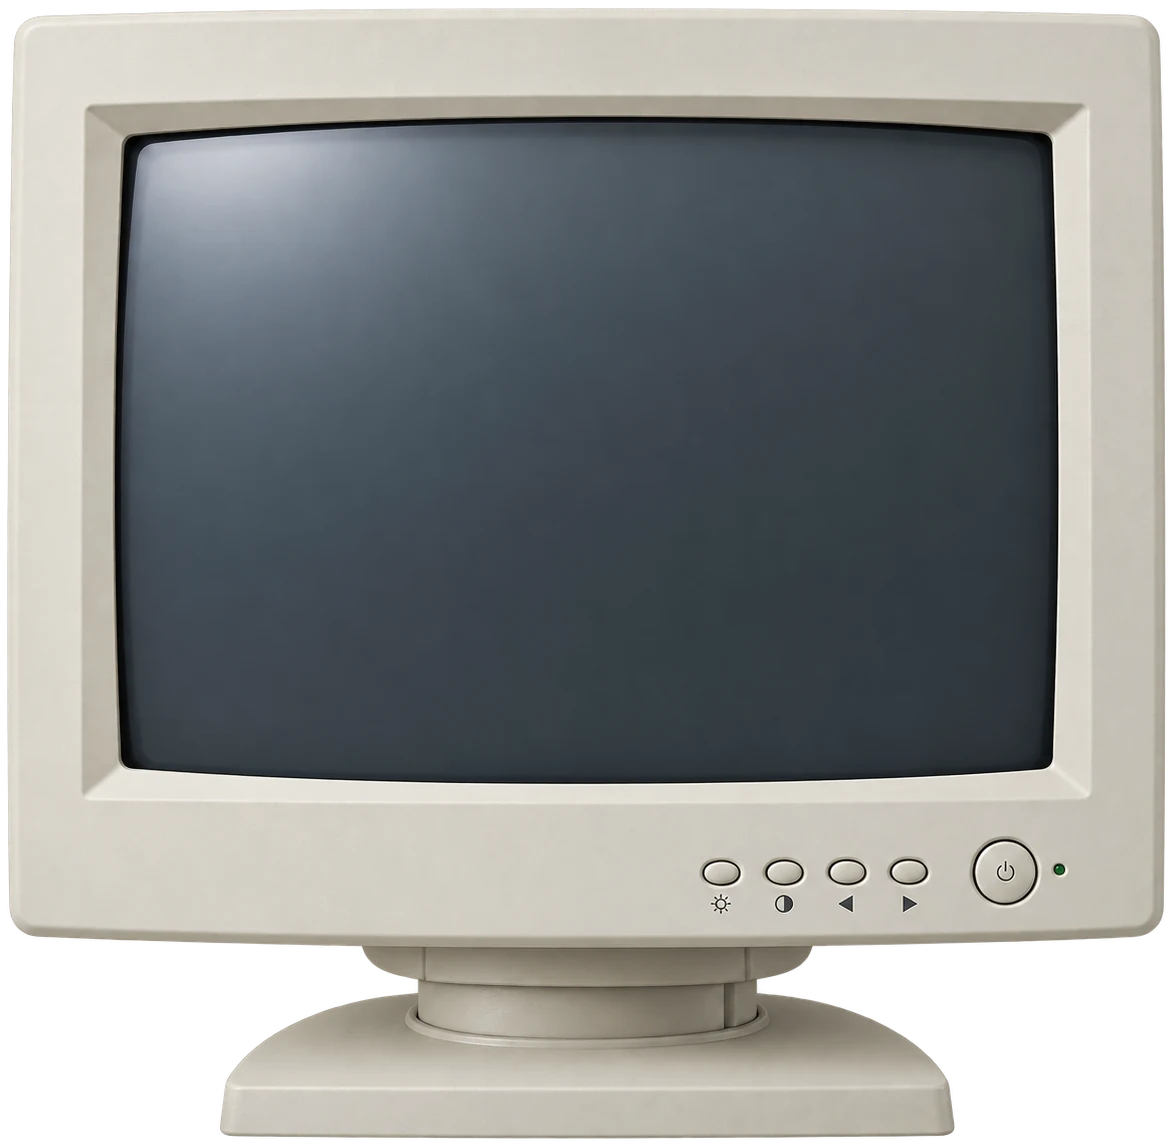
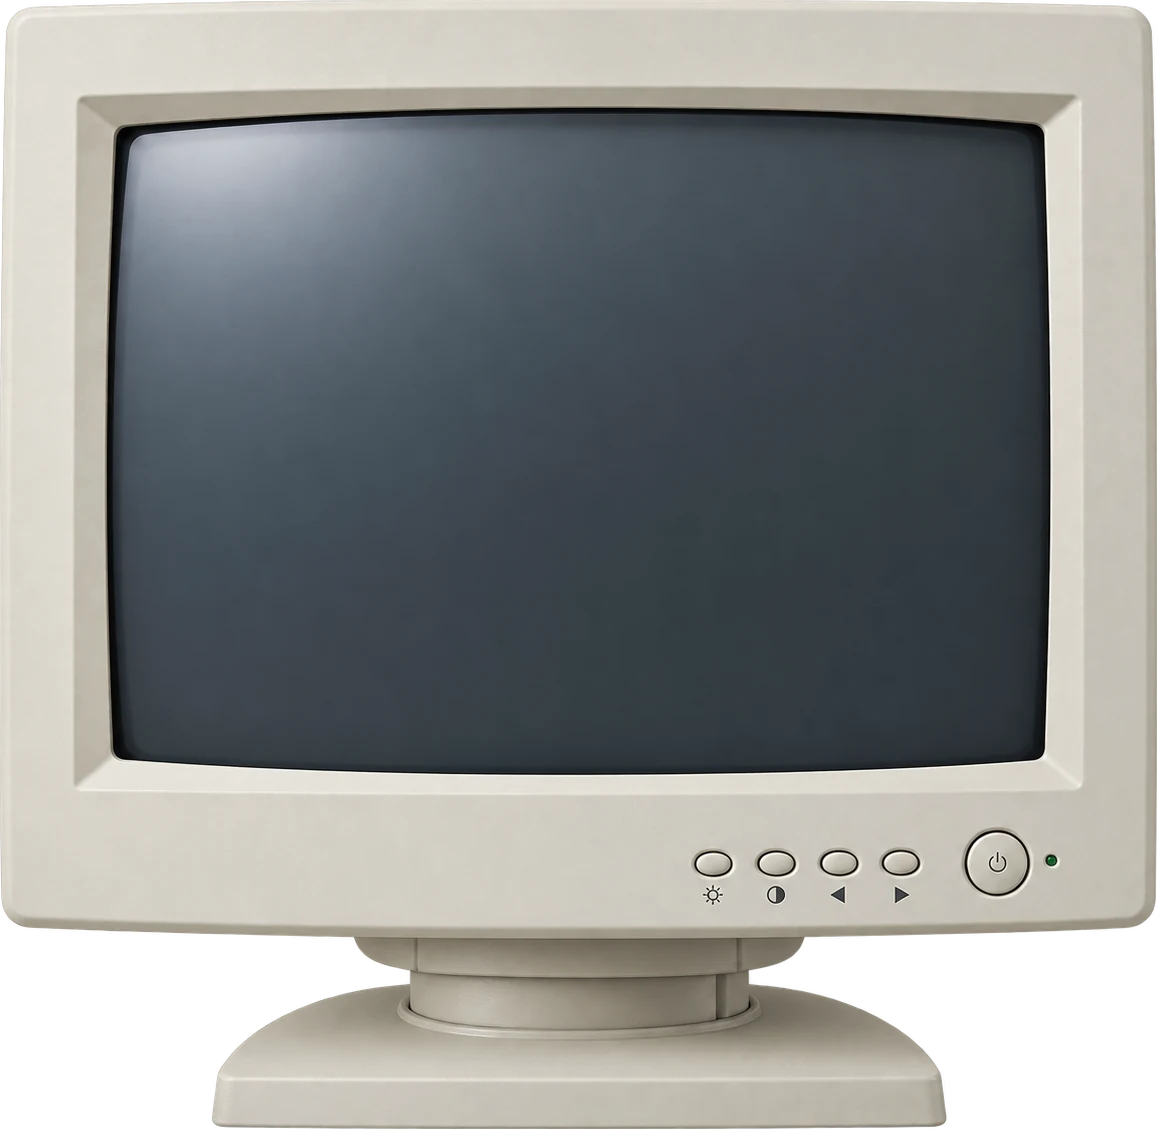
Crop the monitor to its exact edges
No transparent margin around the CRT any more (1157x1129), so the
scene has no empty band above the bezel or below the stand. Stage is
738x720; screen box 601x426 at (68,68); geometry re-derived.

diff --git a/vsl-retro/css/style.css b/vsl-retro/css/style.css
@@ -12,7 +12,7 @@
   --font-ui: Tahoma, 'MS Sans Serif', Verdana, Arial, sans-serif;   /* the Windows 95 system face */
   --font-dos: 'VT323', 'Courier New', monospace;
   --font-px: 'Silkscreen', monospace;
-  --desktop-scale: 0.9194;          /* 645x456 desktop -> 593x419: the bulged screen box */
+  --desktop-scale: 0.9318;          /* 645x457 desktop -> 601x426: the bulged screen box */
 }
 
 * { box-sizing: border-box; }
@@ -24,15 +24,15 @@ button { font: inherit; color: inherit; }
 /* ---------- stage ---------- */
 .stage-wrap { position: fixed; inset: 0; overflow: hidden; }
 /* centred by absolute position + negative margins (a grid track would grow to the unscaled size and overflow on small viewports) */
-.stage { position: absolute; left: 50%; top: 50%; width: 737px; height: 720px; margin: -360px 0 0 -368px; transform-origin: center center; user-select: none; }
-.photo { position: absolute; inset: 0; width: 737px; height: 720px; display: block; }
+.stage { position: absolute; left: 50%; top: 50%; width: 738px; height: 720px; margin: -360px 0 0 -369px; transform-origin: center center; user-select: none; }
+.photo { position: absolute; inset: 0; width: 738px; height: 720px; display: block; }
 
 /* ---------- screen (traced from photo) ---------- */
 .screen {
-  position: absolute; left: 72px; top: 73px; width: 593px; height: 419px;
+  position: absolute; left: 68px; top: 68px; width: 601px; height: 426px;
   overflow: hidden; border-radius: 12px / 10px; background: #061a1a;
   /* the bezel opening bulges ~6px top/bottom and ~3px at the sides: clip to that shape (no pixel warping, so text stays crisp) */
-  clip-path: path('M3 6 Q296.5 -6 590 6 Q596 209.5 590 413 Q296.5 425 3 413 Q-3 209.5 3 6 Z');
+  clip-path: path('M3 6 Q300.5 -6 598 6 Q604 213.0 598 420 Q300.5 432 3 420 Q-3 213.0 3 6 Z');
 }
 .tube {
   position: absolute; inset: 0; background: var(--teal);
@@ -44,7 +44,7 @@ button { font: inherit; color: inherit; }
 .tube.off { transform: scaleY(0.004); opacity: 0; }
 .tube.degauss { animation: degauss .7s ease-out 1; }
 .desktop-scale {
-  position: absolute; left: 0; top: 0; width: 645px; height: 456px;
+  position: absolute; left: 0; top: 0; width: 645px; height: 457px;
   transform: scale(var(--desktop-scale)); transform-origin: top left;
 }
 @keyframes flicker { 0%, 100% { opacity: 1 } 50% { opacity: .985 } }
@@ -79,9 +79,9 @@ button { font: inherit; color: inherit; }
   background: #b2ffff; box-shadow: 0 0 10px 4px rgba(178,255,255,.6); pointer-events: none; }
 
 /* ---------- bezel controls & hotspots ---------- */
-.power { position: absolute; left: 612px; top: 527px; width: 40px; height: 40px; background: none; border: 0; cursor: pointer; border-radius: 6px; }
+.power { position: absolute; left: 616px; top: 529px; width: 40px; height: 40px; background: none; border: 0; cursor: pointer; border-radius: 6px; }
 .power:focus-visible { outline: 2px dashed #fff; }
-.led { position: absolute; left: 659px; top: 540px; width: 10px; height: 10px; border-radius: 50%; background: #3a2a1a; pointer-events: none; transition: background .2s, box-shadow .2s; }
+.led { position: absolute; left: 663px; top: 542px; width: 10px; height: 10px; border-radius: 50%; background: #3a2a1a; pointer-events: none; transition: background .2s, box-shadow .2s; }
 .led.on { background: #35e050; box-shadow: 0 0 6px 2px rgba(53,224,80,.7); }
 
 /* ---------- boot / screensaver ---------- */

diff --git a/vsl-retro/home.html b/vsl-retro/home.html
@@ -19,7 +19,7 @@
   <div class="stage" id="stage">
     <img class="photo" src="assets/monitor.webp" alt="A beige 1990s CRT monitor">
 
-    <!-- Screen: bounding box of the bulged bezel opening (72,73 -> 593x419); css clips it to the curve -->
+    <!-- Screen: bounding box of the bulged bezel opening (68,68 -> 601x426); css clips it to the curve -->
     <div class="screen" id="screen">
       <div class="tube" id="tube">
         <div class="desktop-scale">
@@ -93,7 +93,7 @@
                 </div>
 
                 <!-- HIGH-RES popup: appears bottom-right whenever a tool opens on the tube -->
-                <div class="bev win dialog" data-win="hires" data-label="2026" data-closed data-once style="left:270px;top:296px;width:364px;height:120px" hidden>
+                <div class="bev win dialog" data-win="hires" data-label="2026" data-closed data-once style="left:270px;top:297px;width:364px;height:120px" hidden>
                   <div class="titlebar">
                     <span>1998 CALLED.</span>
                     <span><button class="bev sysbtn" data-wm="min" aria-label="Minimize"></button><button class="bev sysbtn" data-wm="max" aria-label="Maximize"></button><button class="bev sysbtn" data-wm="close" aria-label="Close"></button></span>

diff --git a/vsl-retro/index.html b/vsl-retro/index.html
@@ -18,7 +18,7 @@
   <div class="stage" id="stage">
     <img class="photo" src="assets/monitor.webp" alt="A beige 1990s CRT monitor">
 
-    <!-- Screen: bounding box of the bulged bezel opening (72,73 -> 593x419); css clips it to the curve -->
+    <!-- Screen: bounding box of the bulged bezel opening (68,68 -> 601x426); css clips it to the curve -->
     <div class="screen" id="screen">
       <div class="tube" id="tube">
         <div class="desktop-scale">
@@ -92,7 +92,7 @@
                 </div>
 
                 <!-- HIGH-RES popup: appears bottom-right whenever a tool opens on the tube -->
-                <div class="bev win dialog" data-win="hires" data-label="HIGH-RES" data-closed style="left:330px;top:282px;width:304px;height:134px" hidden>
+                <div class="bev win dialog" data-win="hires" data-label="HIGH-RES" data-closed style="left:330px;top:283px;width:304px;height:134px" hidden>
                   <div class="titlebar">
                     <span>SEE IT IN HIGH RES</span>
                     <span><button class="bev sysbtn" data-wm="min" aria-label="Minimize"></button><button class="bev sysbtn" data-wm="max" aria-label="Maximize"></button><button class="bev sysbtn" data-wm="close" aria-label="Close"></button></span>

diff --git a/vsl-retro/js/app.js b/vsl-retro/js/app.js
@@ -6,8 +6,8 @@
 (() => {
   'use strict';
 
-  const DESKTOP_SCALE = 0.9194;        // must match --desktop-scale in css
-  const WS = { w: 645, h: 424 };       // desktop size above the taskbar, in desktop px
+  const DESKTOP_SCALE = 0.9318;        // must match --desktop-scale in css
+  const WS = { w: 645, h: 425 };       // desktop size above the taskbar, in desktop px
   const DATA_URL = document.body.dataset.tools || 'js/tools.json';        // which programs to load
   const IDLE_MS = document.body.dataset.idle !== undefined ? Number(document.body.dataset.idle) : 45000;   // 0 = no screensaver
   let programCount = 0;
@@ -62,7 +62,7 @@
 
   /* ---------- stage scaling ---------- */
   function fit() {
-    stageScale = Math.min(innerWidth / 737, innerHeight / 720);
+    stageScale = Math.min(innerWidth / 738, innerHeight / 720);
     stage.style.transform = `scale(${stageScale})`;
     palm.style.transform = `scale(${Math.min(innerWidth / 328, innerHeight / 613)})`;     // phone: the handheld
   }

diff --git a/vsl-retro/CLAUDE.md b/vsl-retro/CLAUDE.md
@@ -4,8 +4,8 @@ Read README.md first; it explains the stage, the tube geometry and the effect la
 
 ## Ground rules
 - No build tooling, no frameworks, no npm deps. Vanilla HTML/CSS/JS only; keep it runnable with `python3 -m http.server`.
-- Stage coordinates are 737x720 px (the monitor image, `assets/monitor.webp`, 1172x1145 with alpha, fills it). The screen box is `left:72 top:73 593x419`, clipped by a `clip-path` to the bezel's bulged opening (about 6px top/bottom, 3px sides) - do not move it; it is traced from the image. Never use a displacement filter for curvature; the clip keeps text crisp.
-- Desktop content lives in a 645x456 box scaled by `--desktop-scale` (0.9194) so it fills the screen exactly; the taskbar sits on the screen's bottom edge. If you change that value, change `DESKTOP_SCALE` in js/app.js too.
+- Stage coordinates are 738x720 px (the monitor image, `assets/monitor.webp`, 1157x1129 with alpha, fills it). The screen box is `left:68 top:68 601x426`, clipped by a `clip-path` to the bezel's bulged opening (about 6px top/bottom, 3px sides) - do not move it; it is traced from the image. Never use a displacement filter for curvature; the clip keeps text crisp.
+- Desktop content lives in a 645x457 box scaled by `--desktop-scale` (0.9318) so it fills the screen exactly; the taskbar sits on the screen's bottom edge. If you change that value, change `DESKTOP_SCALE` in js/app.js too.
 - Tool data belongs in `js/tools.json` (lab) and `js/home.json` (homepage), never hard-coded in HTML. `home.html` is `index.html` with different copy; when you change chrome in one, change the other.
 - Keep the desktop chrome generic Windows-95/98-era: system sans (Tahoma/MS Sans Serif) at 11px; icons are our own 32x32 SVGs in the shaded late-90s style (gradients, 1px outline, soft shadow), never vendor logos or wordmarks. VT323 is for the DOS boot screen only. Icons sit directly on the teal desktop (`#desk`, generated in `build()`); the `groups` in the JSON only order them and drive the phone layout.
 - All clickable things must be real `<a>`/`<button>` elements with labels. The phone handheld's group windows are generated from tools.json in `build()`; never hand-edit them.

diff --git a/vsl-retro/README.md b/vsl-retro/README.md
@@ -44,7 +44,7 @@ js/tools.json               the 13 tools (title, URL, group, pixel icon) + 4 gro
 home.html                   homepage entry point (see above)
 js/home.json                the 12 programs for home.html
 sites/cvc1998/              our 1998 website, re-created (index.html + img/*.gif)
-assets/monitor.webp         the CRT on a transparent background (1172x1145), screen area dark
+assets/monitor.webp         the CRT on a transparent background (1157x1129, cropped to the pixel), screen area dark
 assets/barrel.png           602×495 displacement map, kept for reference; no longer used
 assets/cvc-logo.png         the CVC mark, white on transparent, used by the screensaver
 assets/palm.jpg             656×1226 handheld photo for phones, cropped to the device (shown at half size)
@@ -53,11 +53,11 @@ design-canvas-sources/      the Claude Design artboards this was built from (.dc
 
 ## How the screen is put together
 
-- The stage is a fixed 737x720 scene scaled to the viewport (`fit()` in app.js); the monitor image fills it.
-- The screen box is the bounding box of the bezel's bulged opening (`left:72px; top:73px; 593x419`), and
+- The stage is a fixed 738x720 scene scaled to the viewport (`fit()` in app.js); the monitor image fills it.
+- The screen box is the bounding box of the bezel's bulged opening (`left:68px; top:68px; 601x426`), and
   a `clip-path` trims it to the curve, about 6px top/bottom and 3px at the sides. The content is
   not warped, so text stays crisp; only the outline follows the glass.
-- Inside `.tube`, a 645x456 desktop is scaled by 0.9194 (`--desktop-scale`) to fill the screen exactly. Pointer
+- Inside `.tube`, a 645x457 desktop is scaled by 0.9318 (`--desktop-scale`) to fill the screen exactly. Pointer
   deltas are divided by `stageScale × 0.934` so dragging tracks the cursor.
 - There is no barrel distortion any more. The `feDisplacementMap` approach (still documented by
   `assets/barrel.png`, a 602×495 map with R = x, G = y, radial r³) rasterised the screen once and
